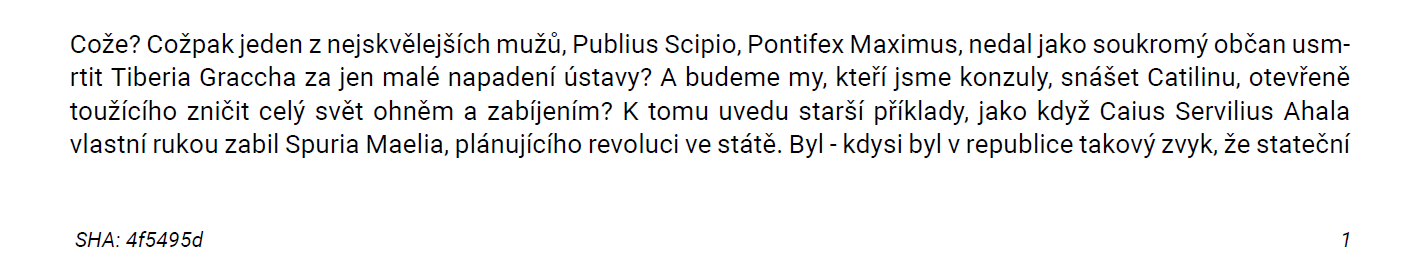
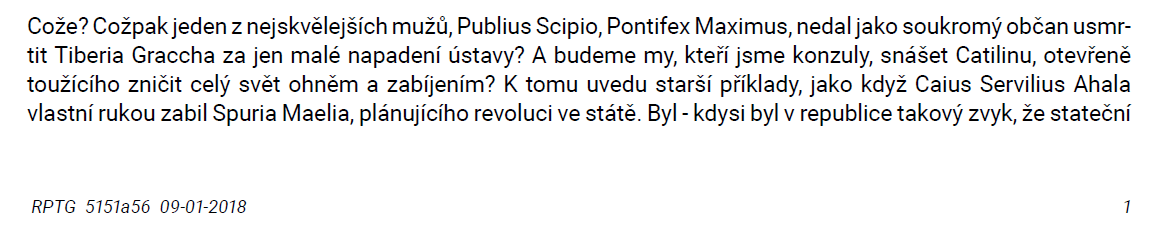
update of footer legalized in readme

Changed region(s): [[0.0, 0.0593, 0.9888, 0.5636], [0.0309, 0.8305, 0.2163, 0.9195], [0.9579, 0.8305, 0.9888, 0.8898]]

diff --git a/README.md b/README.md
@@ -8,9 +8,29 @@ I have therefore compiled a simple r markdown template, together with an accompa
 ## A few features I found advantageous:  
 * I like even my intermediate reports to be read only, hence my output is by choice *\*.pdf*, not the more common MS Word.  
 * I have struggled with finding a sans serif font that would be easily available in both Linux and Windows environment, after a while I settled on [Roboto](https://fonts.google.com/specimen/Roboto). The usual suspects Arial and Helvetica turned out to be unreliable in this regard.
-* My reports often take a life of their own once out of my hands; to improve version control I have created 'version' field in the front matter of my report, together with corresponding code in my *Report.tex* template which places the short form SHA of the last commit in the left hand footer of each page (on the right hand side is page number). This way I can be certain at which iteration of my analysis a report was generated.
-``` r
-version: " SHA: `r system('git rev-parse --short=7 HEAD', intern=TRUE)`" 
+* I have included LaTeX macros for the more common table operations, so that the report does not fail on the dreaded *Environment XYZ not defined* error.
+
+```r  
+\usepackage{longtable}
+\usepackage{booktabs}
+\usepackage{array}
+\usepackage{multirow}
+\usepackage[table]{xcolor}
+\usepackage{wrapfig}
+\usepackage{float}
+\usepackage{colortbl}
+\usepackage{pdflscape}
+\usepackage{tabu}
+\usepackage{threeparttable}
+```
+* My reports often take a life of their own once out of my hands; to improve version control I have created 'project', 'version' and 'date' fields in the front matter of my report, together with corresponding code in my *Report.tex* template which places the project name, short form SHA of the last commit and system date in the left hand footer of each page (on the right hand side is page number).  
+This way I can be certain at which iteration of my analysis a report was generated. I found this information valuable for intermediary reports, for final version it is easily removed.
+
+
+```r
+project: "`r basename(system('git rev-parse --show-toplevel', intern=TRUE))`"
+version: "`r system('git rev-parse --short=7 HEAD', intern=TRUE)`"
+date:    "`r format(Sys.time(), '%d-%m-%Y')`"
 ```  
 ![](footer.png)
 
